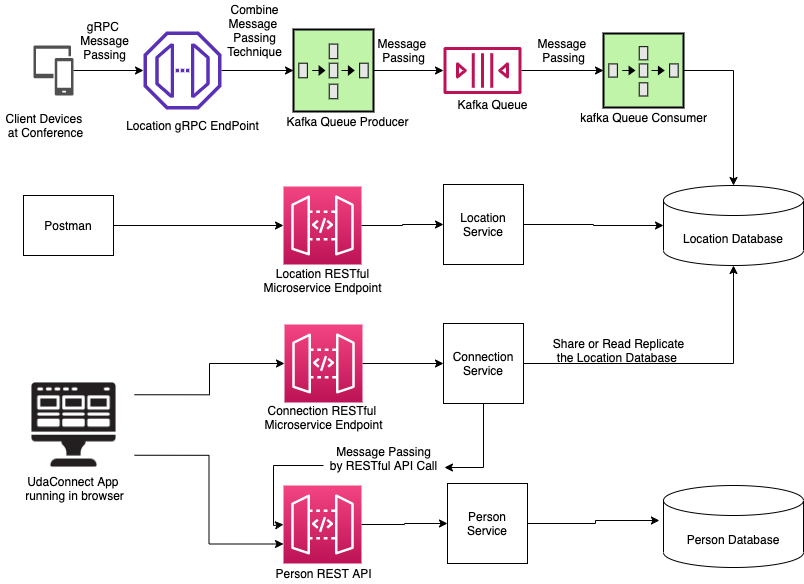
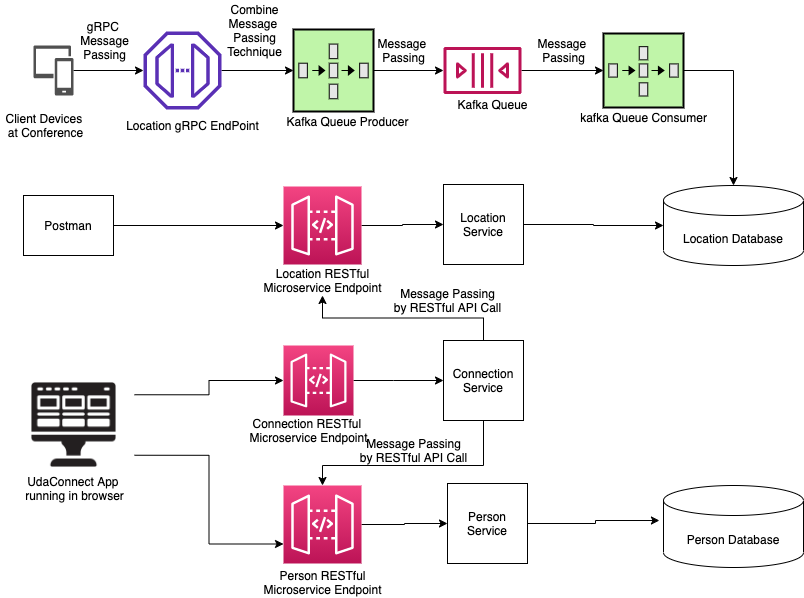
second commit

diff --git a/modules/usConnection/app/udaconnect/services.py b/modules/usConnection/app/udaconnect/services.py
@@ -23,16 +23,7 @@ class ConnectionService:
         large datasets. This is by design: what are some ways or techniques to help make this data integrate more
         smoothly for a better user experience for API consumers?
         """
-        locations: List = db.session.query(Location).filter(
-            Location.person_id == person_id
-        ).filter(Location.creation_time < end_date).filter(
-            Location.creation_time >= start_date
-        ).all()
-
-        # Cache all users in memory for quick lookup
-        person_map: Dict[str, Person] = {person["id"]: person for person in PersonService.retrieve_all()}
-
-        # Prepare arguments for queries
+        locations: List = LocationService.findLocations(person_id, start_date, end_date)
         data = []
         for location in locations:
             data.append(
@@ -45,40 +36,55 @@ class ConnectionService:
                     "end_date": (end_date + timedelta(days=1)).strftime("%Y-%m-%d"),
                 }
             )
+        # Cache all users in memory for quick lookup
+        person_map: Dict[str, Person] = {person["id"]: person for person in PersonService.retrieve_all()}
 
-        query = text(
-            """
-        SELECT  person_id, id, ST_X(coordinate), ST_Y(coordinate), creation_time
-        FROM    location
-        WHERE   ST_DWithin(coordinate::geography,ST_SetSRID(ST_MakePoint(:latitude,:longitude),4326)::geography, :meters)
-        AND     person_id != :person_id
-        AND     TO_DATE(:start_date, 'YYYY-MM-DD') <= creation_time
-        AND     TO_DATE(:end_date, 'YYYY-MM-DD') > creation_time;
-        """
-        )
+        # Prepare arguments for queries
+
         result: List[Connection] = []
-        for line in tuple(data):
-            for (
-                exposed_person_id,
-                location_id,
-                exposed_lat,
-                exposed_long,
-                exposed_time,
-            ) in db.engine.execute(query, **line):
-                location = Location(
-                    id=location_id,
-                    person_id=exposed_person_id,
-                    creation_time=exposed_time,
-                )
-                location.set_wkt_with_coords(exposed_lat, exposed_long)
-
+        for line in data:
+            for location in LocationService.findLocation(person_id=line["person_id"], start_date=line["start_date"], end_date=line["end_date"],
+                    meters=line["meters"], latitude=line["latitude"], longitude=line["longitude"]):
                 result.append(
                     Connection(
-                        person=person_map[exposed_person_id], location=location,
+                        person=person_map[location.person_id], location=location,
                     )
                 )
-
+            
         return result
+
+
+class LocationService:
+    @staticmethod
+    def findLocations(person_id, start_date, end_date) -> List[Location]:
+        location_list: List[Location] = []
+        res = requests.get("http://location-api:5000/api/locationsinfo/person/{}?start_date={}&end_date={}".format(person_id, start_date, end_date))
+        locations = res.json()
+
+        for locationJson in locations:
+            location = Location()
+            location.id = locationJson['id']
+            location.person_id = locationJson['person_id']
+            location.set_wkt_with_coords(locationJson['latitude'], locationJson['longitude'])
+            location.creation_time = datetime.strptime(locationJson['creation_time'], "%Y-%m-%dT%H:%M:%S")
+            location_list.append(location)
+        return location_list
+    
+    @staticmethod
+    def findLocation(person_id, start_date, end_date, meters, latitude, longitude) -> List[Location]:
+        res = requests.get("http://location-api:5000/api/locationinfo/person/{}?start_date={}&end_date={}&meters={}&latitude={}&longitude={}"
+                .format(person_id, start_date, end_date, meters, latitude, longitude))
+        location_list: List[Location] = []
+        locations = res.json()
+        for locationJson in locations:
+            location = Location()
+            location.id = locationJson['id']
+            location.person_id = locationJson['person_id']
+            location.set_wkt_with_coords(locationJson['latitude'], locationJson['longitude'])
+            location.creation_time = datetime.strptime(locationJson['creation_time'], "%Y-%m-%dT%H:%M:%S")
+            location_list.append(location)
+        return location_list
+
 
 class PersonService:
     @staticmethod

diff --git a/modules/usLocation/app/udaconnect/services.py b/modules/usLocation/app/udaconnect/services.py
@@ -52,6 +52,57 @@ class LocationService:
 
         return new_location
 
+
+class LocationInfoService:
+
+    @staticmethod
+    def findLocations(person_id, start_date, end_date):
+        locations: List = db.session.query(Location).filter(
+            Location.person_id == person_id
+        ).filter(Location.creation_time < end_date).filter(
+            Location.creation_time >= start_date
+        ).all()
+        return locations
+
+    @staticmethod
+    def findLocation(person_id, start_date, end_date, meters, latitude, longitude):
+        data = {
+                    "person_id": person_id,
+                    "longitude": longitude,
+                    "latitude": latitude,
+                    "meters": meters,
+                    "start_date": datetime.strptime(start_date, "%Y-%m-%d").strftime("%Y-%m-%d"),
+                    "end_date": (datetime.strptime(end_date, "%Y-%m-%d") + timedelta(days=1)).strftime("%Y-%m-%d"),
+                }
+        query = text(
+            """
+        SELECT  person_id, id, ST_X(coordinate), ST_Y(coordinate), creation_time
+        FROM    location
+        WHERE   ST_DWithin(coordinate::geography,ST_SetSRID(ST_MakePoint(:latitude,:longitude),4326)::geography, :meters)
+        AND     person_id != :person_id
+        AND     TO_DATE(:start_date, 'YYYY-MM-DD') <= creation_time
+        AND     TO_DATE(:end_date, 'YYYY-MM-DD') > creation_time;
+        """
+        )
+        locations : List[Location] = []
+        for (
+                exposed_person_id,
+                location_id,
+                exposed_lat,
+                exposed_long,
+                exposed_time,
+        ) in db.engine.execute(query, **data):
+            location = Location(
+                id=location_id,
+                person_id=exposed_person_id,
+                creation_time=exposed_time,
+            )
+            location.set_wkt_with_coords(exposed_lat, exposed_long)
+            locations.append(location)
+        return locations
+
+
+
 class KafkaService:
 
     TOPIC_NAME = 'locations'

diff --git a/modules/usLocation/app/udaconnect/controllers.py b/modules/usLocation/app/udaconnect/controllers.py
@@ -4,7 +4,7 @@ from app.udaconnect.models import Location
 from app.udaconnect.schemas import (
     LocationSchema,
 )
-from app.udaconnect.services import LocationService, KafkaService
+from app.udaconnect.services import LocationService, LocationInfoService, KafkaService
 from flask import request
 from flask_accepts import accepts, responds
 from flask_restx import Namespace, Resource
@@ -40,3 +40,22 @@ class LocationResource(Resource):
     def get(self, location_id) -> Location:
         location: Location = LocationService.retrieve(location_id)
         return location
+
+
+@api.route("/locationsinfo/person/<person_id>")
+@api.param("person_id", "Unique ID for a given Person", _in="query") 
+class LocationsInfoResource(Resource):
+    @responds(schema=LocationSchema, many=True)
+    def get(self, person_id) -> List[Location]:
+        locations: List[Location] = LocationInfoService.findLocations(person_id=person_id, start_date=request.args["start_date"], end_date=request.args["end_date"])
+        return locations
+
+
+@api.route("/locationinfo/person/<person_id>")
+@api.param("person_id", "Unique ID for a given Person", _in="query")
+class LocationInfoResource(Resource):
+    @responds(schema=LocationSchema, many=True)
+    def get(self, person_id) -> Location:
+        locations: List[Location] = LocationInfoService.findLocation(person_id, start_date=request.args["start_date"], end_date=request.args["end_date"],
+                meters=request.args["meters"], latitude=request.args["latitude"], longitude=request.args["longitude"])
+        return locations

diff --git a/modules/usLocation/app/udaconnect/schemas.py b/modules/usLocation/app/udaconnect/schemas.py
@@ -13,3 +13,12 @@ class LocationSchema(Schema):
 
     class Meta:
         model = Location
+
+
+class LocationInfoSchema(Schema):
+    person_id = fields.Integer()
+    longitude = fields.String(attribute="longitude")
+    latitude = fields.String(attribute="latitude")
+    meters = fields.Integer()
+    start_date = fields.DateTime()
+    end_date = fields.DateTime()
